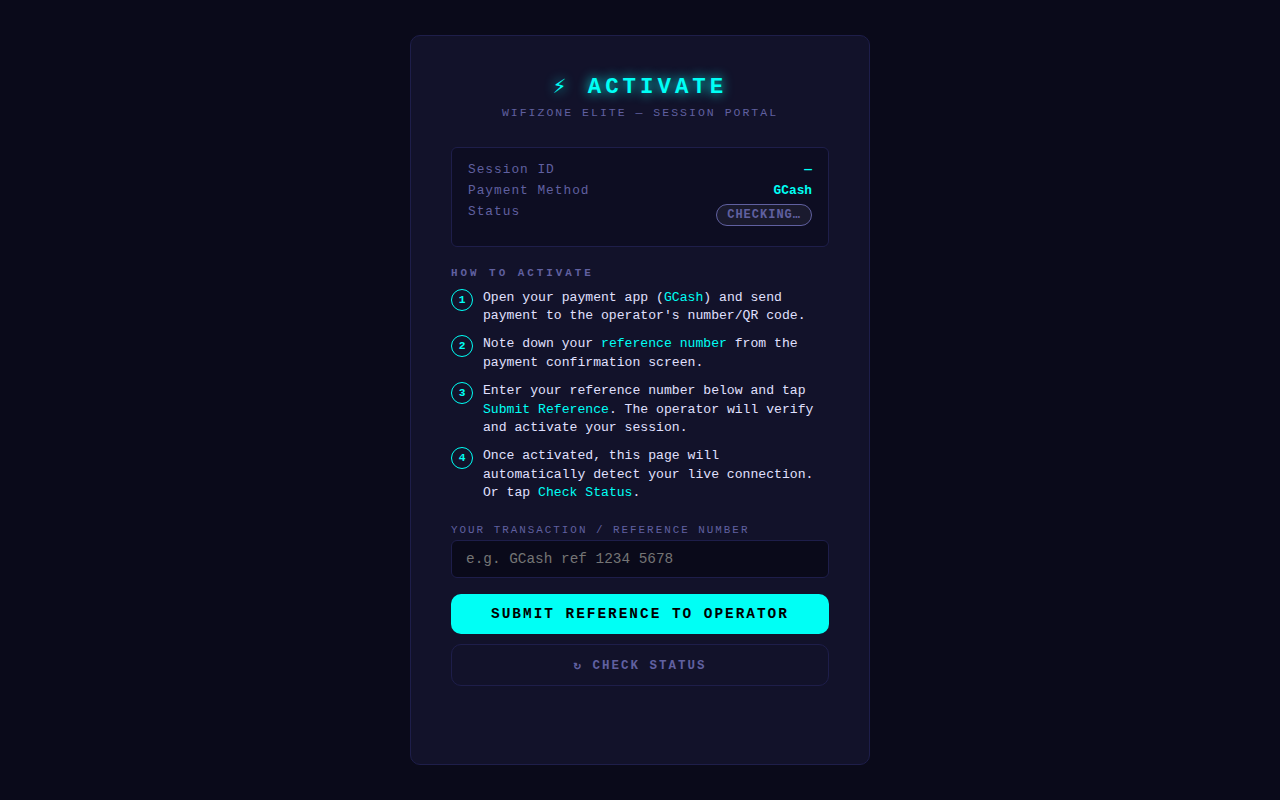
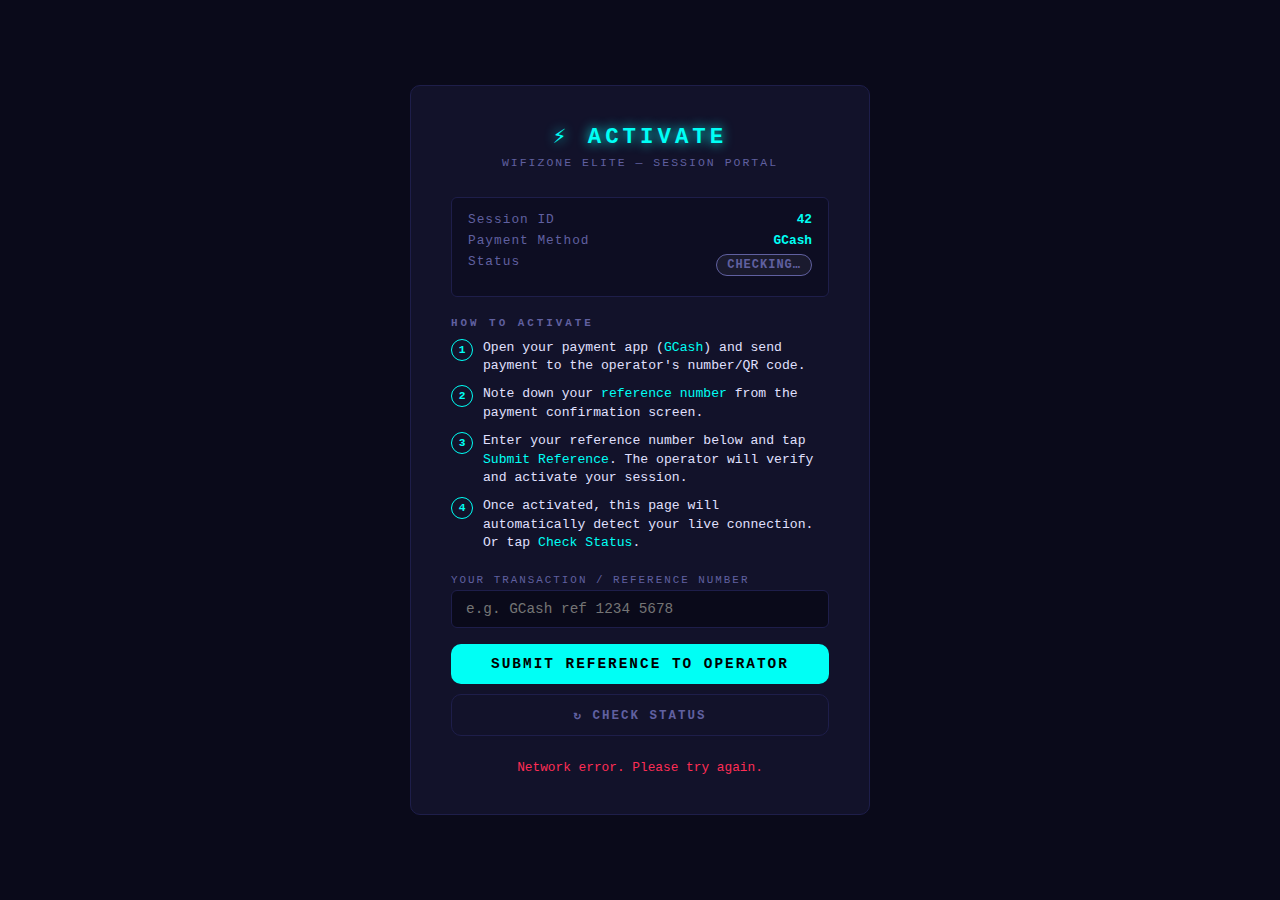
docs: add actual UI screenshots for landing page, activation page, and operator dashboard
Agent-Logs-Url: https://github.com/SolanaRemix/wifizone/sessions/18d90e96-bf01-4911-be33-fe5f5e693eca

Changed region(s): [[0.3438, 0.0625, 0.6562, 0.875], [0.5625, 0.2188, 0.6562, 0.3125]]

diff --git a/README.md b/README.md
@@ -33,19 +33,19 @@ WIFIZONE ELITE turns a MikroTik router into a full captive portal with time-base
 
 The operator dashboard shows live Starlink telemetry gauges, total revenue, autopilot queue status, the last 50 session unlocks (via WebSocket), and a live MikroTik hotspot users table that auto-refreshes every 30 s.
 
-![Admin Dashboard](docs/screenshot-dashboard.png)
+![Admin Dashboard](https://github.com/user-attachments/assets/f8feeff2-be27-4a39-800b-9b2c1570a1eb)
 
 ### User Landing Page (Captive Portal)
 
 The client-facing portal lists available plans and lets users choose GCash or Card payment.
 
-![Landing Page](docs/screenshot-landing.png)
+![Landing Page](https://github.com/user-attachments/assets/84349bcc-90d7-438f-8009-f9a80c6abf21)
 
 ### Session Activation Page
 
 After selecting a plan, users are redirected here. They enter their payment reference number for operator verification, and the page polls the backend every time they click "Check Status" to detect when the operator has activated their session.
 
-![Activation Page](docs/screenshot-activate.png)
+![Activation Page](https://github.com/user-attachments/assets/fbd4c2f1-faf6-4970-b1b1-116a90256ca8)
 
 ---
 
